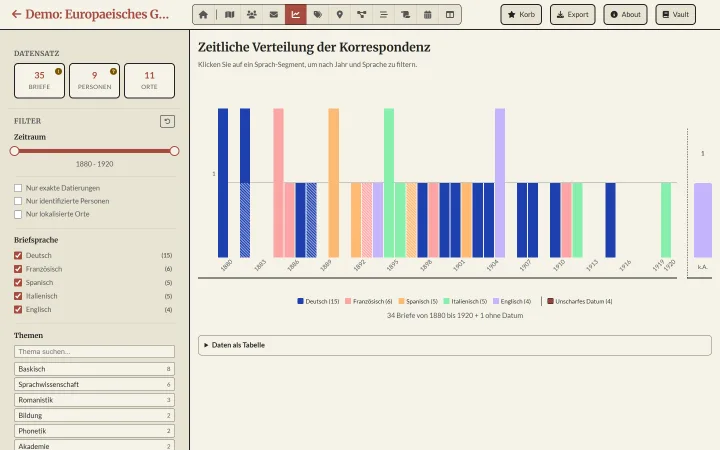
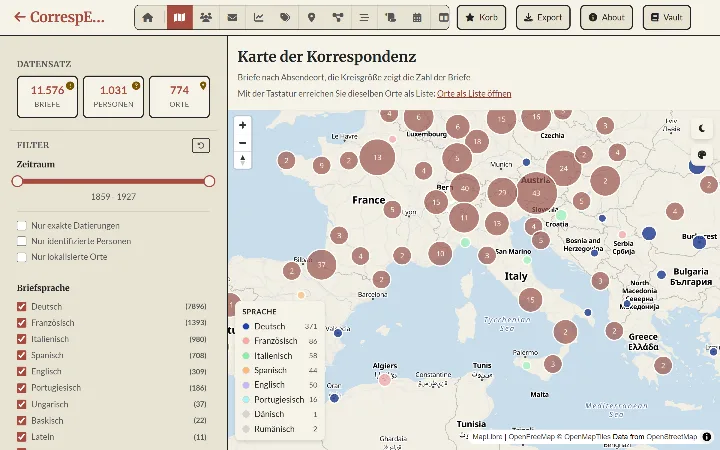
Show stronger screenshots for CorrespExplorer, SZD and teiCrafter, open teiCrafter with its public example and redraw the pipeline figure
Operator feedback and the open rights question on the facsimiles are recorded in design.md and plan.md of knowledge/fancy-research-tools.

diff --git a/src/i18n/fancy.ts b/src/i18n/fancy.ts
@@ -38,7 +38,8 @@ const toolsBase: { id: string; img: string; open: string; code: string; video?: 
   {
     id: 't-tei',
     img: 'teicrafter',
-    open: 'https://dhcraft.org/teiCrafter/editor.html',
+    // The deep link opens the editor with its one public example, without it the editor starts empty.
+    open: 'https://dhcraft.org/teiCrafter/editor.html#example=szd',
     code: 'https://github.com/DigitalHumanitiesCraft/teiCrafter',
     maturity: 'experiment',
   },
@@ -160,19 +161,19 @@ const text = {
       },
       {
         title: 'teiCrafter',
-        alt: 'teiCrafter mit lesbarem Brieftext und markierten Personen und Orten links und dem Register der erwähnten Personen und Orte rechts.',
+        alt: 'teiCrafter mit einem Brief von Stefan Zweig aus dem Jahr 1901. Links steht der lesbare Brieftext Zeile für Zeile, rechts das Faksimile der Briefseite.',
         solution: 'Eine Vorlage zum Forken, aus der Sie Ihr eigenes Werkzeug zur Erfassung von TEI-Daten entwickeln. Sie zeigt lesbaren Text statt Tags und prüft beim Speichern gegen das Schema.',
         licence: 'Code MIT',
       },
       {
         title: 'CorrespExplorer',
-        alt: 'CorrespExplorer mit einer Zeitleiste der Briefe eines Demonstrationsbestands, farbig nach Sprache, und Filtern am linken Rand.',
+        alt: 'CorrespExplorer mit der Karte der Korrespondenz des Hugo Schuchardt Archivs. Kreise über Europa zeigen die Zahl der Briefe je Absendeort, eine Legende die Briefsprachen, am linken Rand stehen Zeitraum und Sprachfilter.',
         solution: 'Zeigt Briefmetadaten aus CMIF als Karte, Zeitleiste und Netzwerk, damit sichtbar wird, wer wem wann von wo schrieb.',
-        licence: 'Code MIT',
+        licence: 'Code MIT, Beispieldaten CC BY 4.0',
       },
       {
         title: 'SZD OCR/HTR Pipeline',
-        alt: 'Statistikansicht der SZD OCR/HTR Pipeline mit der Verteilung der Objekte nach Prüfstufe und den Gründen, aus denen Objekte zur Sichtung vorgemerkt sind.',
+        alt: 'SZD OCR/HTR Pipeline mit einem handschriftlichen Brief von Stefan Zweig aus dem Juni 1939. Links steht das Faksimile, rechts die Transkription Zeile für Zeile, darunter der Vermerk Geprüft.',
         solution: 'Transkribiert die digitalisierten Objekte eines Nachlasses und vermerkt an jedem Objekt, ob es nur maschinell transkribiert, von einem Agenten geprüft oder von Menschen geprüft ist.',
         licence: 'Code MIT',
       },
@@ -203,7 +204,7 @@ const text = {
       },
       {
         title: 'Agentic Edition Pipeline',
-        alt: 'Agentic Edition Pipeline als Ablauf vom Digitalisat über Transkription, Qualitätsprüfung und Basis-TEI zu Ansicht und Korrektur und zur Veröffentlichung. Ein KI-Agent mit Projektwissen führt den Ablauf aus, das Redaktionsteam prüft bei Ansicht und Korrektur und nimmt vor der Veröffentlichung ab.',
+        alt: 'Agentic Edition Pipeline in einer Reihe von den Bildern über Transkription, Qualität und TEI zu Prüfung und Freigabe. Die ersten vier Schritte führt ein KI-Agent mit dem Projektwissen der Edition aus, Prüfung und Freigabe liegen beim Redaktionsteam, und Korrekturen gehen zurück in die Daten. Das Ergebnis sind TEI-XML und eine statische Leseansicht.',
         solution: 'Die Agentic Edition Pipeline führt Digitalisate über Transkription und Prüfung zu TEI und einer statischen Leseansicht.',
       },
     ],
@@ -264,19 +265,19 @@ const text = {
       },
       {
         title: 'teiCrafter',
-        alt: 'teiCrafter with readable letter text and marked persons and places on the left and the register of the persons and places mentioned on the right.',
+        alt: 'teiCrafter with a letter by Stefan Zweig of 1901. The readable letter text stands line by line on the left, the facsimile of the page on the right.',
         solution: 'A template to fork and develop into your own tool for capturing TEI data. It shows readable text instead of tags and validates against the schema on saving.',
         licence: 'Code MIT',
       },
       {
         title: 'CorrespExplorer',
-        alt: 'CorrespExplorer with a timeline of the letters in a demonstration collection, coloured by language, and filters along the left edge.',
+        alt: 'CorrespExplorer with the map of the correspondence of the Hugo Schuchardt Archiv. Circles across Europe show the number of letters per place of sending, a legend the languages of the letters, and the left edge holds the period and language filters.',
         solution: 'Shows letter metadata from CMIF as a map, a timeline and a network, so that it becomes visible who wrote to whom, when and from where.',
-        licence: 'Code MIT',
+        licence: 'Code MIT, sample data CC BY 4.0',
       },
       {
         title: 'SZD OCR/HTR Pipeline',
-        alt: 'Statistics view of the SZD OCR/HTR Pipeline with the distribution of objects by checking tier and the reasons why objects are marked for review.',
+        alt: 'SZD OCR/HTR Pipeline with a handwritten letter by Stefan Zweig of June 1939. The facsimile stands on the left, the transcription line by line on the right, and the note Geprüft, checked, below.',
         solution: 'Transcribes the digitised objects of an estate and records for every object whether it is machine-transcribed only, checked by an agent or checked by a human.',
         licence: 'Code MIT',
       },
@@ -307,7 +308,7 @@ const text = {
       },
       {
         title: 'Agentic Edition Pipeline',
-        alt: 'Agentic Edition Pipeline as a workflow from page images via transcription, quality assessment and base TEI to viewing and correction and to publication. An AI agent with project knowledge runs the workflow, the editorial team reviews at viewing and correction and accepts before publication.',
+        alt: 'Agentic Edition Pipeline in one row from images via transcription, quality and TEI to review and release. An AI agent runs the first four steps with the project knowledge of the edition, review and release rest with the editorial team, and corrections return to the data. The result is TEI XML and a static reading view.',
         solution: 'The Agentic Edition Pipeline takes digital copies through transcription and review to TEI and a static reading view.',
       },
     ],

diff --git a/knowledge/fancy-research-tools/data.md b/knowledge/fancy-research-tools/data.md
@@ -52,7 +52,7 @@ The anchor is the fragment identifier on the page. The licence column names what
 | Tool | Anchor | Maturity on the page | Demo | Repository | Licence | Maturity source |
 |---|---|---|---|---|---|---|
 | coOCR/HTR | `#t-coocr` | Experiment | https://dhcraft.org/co-ocr-htr/ | https://github.com/DigitalHumanitiesCraft/co-ocr-htr | CC BY 4.0 for the whole repository, code included. Whether the code returns to MIT is open, see [plan](plan.md#open-points) | https://github.com/DigitalHumanitiesCraft/co-ocr-htr/blob/main/README.md, which calls the tool a research preview in beta. The page says Experiment by [ADR-016](specification.md#adr-016-uniform-links-no-ability-icons-research-mission-control-withdrawn) |
-| teiCrafter | `#t-tei` | Experiment | https://dhcraft.org/teiCrafter/editor.html | https://github.com/DigitalHumanitiesCraft/teiCrafter | MIT for code, no licence declared for documentation | https://github.com/DigitalHumanitiesCraft/teiCrafter/blob/main/knowledge/INDEX.md and the README, which calls the tool a research preview. The page says Experiment by ADR-016 |
+| teiCrafter | `#t-tei` | Experiment | https://dhcraft.org/teiCrafter/editor.html#example=szd, the deep link that opens the editor with its one public example. Without it the editor starts empty | https://github.com/DigitalHumanitiesCraft/teiCrafter | MIT for code, no licence declared for documentation | https://github.com/DigitalHumanitiesCraft/teiCrafter/blob/main/knowledge/INDEX.md and the README, which calls the tool a research preview. The page says Experiment by ADR-016 |
 | CorrespExplorer | `#t-corresp` | Laufende Demo | https://dhcraft.org/CorrespExplorer/ | https://github.com/DigitalHumanitiesCraft/CorrespExplorer | MIT, docs CC BY 4.0 | https://github.com/DigitalHumanitiesCraft/CorrespExplorer/blob/main/README.md |
 | SZD OCR/HTR Pipeline | `#t-szd` | Experiment | https://chpollin.github.io/szd-htr-ocr-pipeline/ | https://github.com/chpollin/szd-htr-ocr-pipeline | MIT for code, documentation CC BY 4.0. The rights in the facsimiles and in the transcriptions derived from them remain with the Literaturarchiv Salzburg | https://github.com/chpollin/szd-htr-ocr-pipeline/blob/main/knowledge/INDEX.md, state from its README (experimental sub-project, four checking tiers recorded per object, tier 0 implemented end to end), checked on 2026-11-05 |
 | Stefan-Zweig-Bibliographie (Klawiter-Rescue) | `#t-klawiter` | Bestand gesichert | https://chpollin.github.io/klawiter-rescue/ | https://github.com/chpollin/klawiter-rescue | MIT, documentation and data CC BY 4.0 | https://github.com/chpollin/klawiter-rescue/blob/main/knowledge/status.md |
@@ -81,7 +81,7 @@ The cards show hand-written SVG figures in `src/components/fancy/MethodFigure.as
 | Promptotyping | `assets/img/promptotyping-practice.svg` of the local clone `Promptotyping` | researchers who direct and validate, the four forms of work in the order of a first pass, the promptotype made of artefact, project knowledge and research data, knowledge curation |
 | Grounded Vault | `docs/images/grounded-vault-provenance-chain.svg` of the local clone `grounded-vault` | the chain from Output to Sources, the three checks with who performs them, the status ladder |
 | Second Brain Vault | `docs/images/second-brain-figure-de.svg` and `second-brain-figure.svg` of the local clone `second-brain-vault` | vault, agent session and project repository with their blocks, the three steps, reading and writing, the Repo Directory |
-| Agentic Edition Pipeline | none exists. Drawn from the workflow table and the section on models and methods in the README of the repository | page images, transcription, quality assessment, base TEI, viewing and correction, publication, the agent that runs the workflow, the editorial team at viewing and correction and at publication |
+| Agentic Edition Pipeline | none exists. Drawn from the workflow table and the section on models and methods in the README of the repository, redrawn on 2026-11-10 after the operator found the first version pale and schematic | one row of six stations with an icon and one word each, the four the agent runs in blue and the two that rest with the editorial team in purple, the return of corrections as one arrow, the project knowledge in orange and the result, TEI XML and a static reading view, in green |
 
 Language. The terms of Promptotyping and Grounded Vault stay English on both language versions, because both methods fix them in English. Second Brain Vault and the Agentic Edition Pipeline are German on the German page and English on the English page, because Second Brain Vault keeps both versions of its figure.
 
@@ -92,15 +92,15 @@ All published images lie in `public/fancy-research-tools/img/` of the site repos
 | File | Shows | Rights basis |
 |---|---|---|
 | `coocr-htr-*.webp` | coOCR/HTR with a printed page of 1617 from the bundled sample | own tool, print of 1617. The tool's repository records neither the source of the scan nor its terms of use, see [plan](plan.md#open-points) |
-| `teicrafter-*.webp` | teiCrafter with a synthetic letter from `docs/data/editor/zbz-hersch-synthetic.xml` of a teiCrafter clone, dropped into the editor by the screenshot recipe. The public demo offers one other example in its menu | own tool, synthetic text |
-| `correspexplorer-*.webp` | CorrespExplorer timeline of the synthetic demo dataset | own tool, synthetic data |
-| `szd-htr-*.webp` | SZD OCR/HTR Pipeline statistics view with checking tiers and review reasons | own tool, no facsimile shown, because the image rights lie with the archive |
+| `teicrafter-*.webp` | teiCrafter with the one example its public editor offers, a letter by Stefan Zweig of 1901 from Stefan Zweig Digital, third page, reading text beside the facsimile | own tool. The example lies in the tool's repository under CC BY 4.0 per its notice file, the facsimile is loaded from GAMS, and the SZD pipeline states that rights in facsimiles and transcriptions remain with the Literaturarchiv Salzburg, see [plan](plan.md#open-points) |
+| `correspexplorer-*.webp` | CorrespExplorer map of the reference dataset, the CMIF export of the Hugo Schuchardt Archiv with more than eleven thousand letters, bundled by the tool as its extended example | own tool. Data CC BY 4.0 per `knowledge/data.md` of the tool's repository, base map from OpenFreeMap with OpenStreetMap data, whose attribution the screenshot shows |
+| `szd-htr-*.webp` | SZD OCR/HTR Pipeline viewer with object `o:szd.1641`, a handwritten letter by Stefan Zweig of June 1939, facsimile beside transcription with the note Geprüft | own tool. The facsimile is shown on the operator's request of 2026-11-10. Its rights and those of the transcription lie with the Literaturarchiv Salzburg, and no repository records the archive's consent to this use, see [plan](plan.md#open-points). The view names the person who checked the object and the transcription model, as the public viewer does |
 | `klawiter-*.webp` | start page of the Stefan Zweig Bibliography with search, the overview of how the data is built and the sections of the bibliography | own tool, data CC BY 4.0 |
 | none | the generated method infographics `method-*.webp` left `public/` on 2026-11-10, replaced by the [method figures](#method-figures). Their prompt logs stay in `image-prompts/` | not published |
 | `video/fancy-research-tools-workflows.mp4`, its poster and its English captions | the advert video of the page in 1280 by 720, see [Advert video](#advert-video) | picture rendered from code in the repository `dhcraft-promo`, music generated with ACE-Step 1.5, fonts under the SIL Open Font License, logo from the brand assets |
 | `og.jpg`, `og-en.jpg` | hero of the German and the English page for link previews, 1200 by 630 | rendered by `scripts/fancy-research-tools/shoot-og.cjs` from the site preview on 2026-11-05 |
 
-All five tool screenshots were retaken on 2026-11-10. Tool screenshots are taken by `scripts/fancy-research-tools/shoot-tools.cjs` at double pixel density from the live demos, each recipe choosing a state of the real tool without altering its interface. The coOCR/HTR link points to the demo root and never to individual samples. The logo and favicon of the page belong to the site.
+All five tool screenshots were retaken on 2026-11-10, those of teiCrafter, CorrespExplorer and the SZD OCR/HTR Pipeline a second time the same day in a smaller window and a more telling state, after the operator found the first ones weak. Tool screenshots are taken by `scripts/fancy-research-tools/shoot-tools.cjs` at double pixel density from the live demos, each recipe choosing a state of the real tool without altering its interface. The coOCR/HTR link points to the demo root and never to individual samples. The logo and favicon of the page belong to the site.
 
 ## Advert video
 

diff --git a/knowledge/fancy-research-tools/journal.md b/knowledge/fancy-research-tools/journal.md
@@ -217,3 +217,9 @@ The curated backward-looking provenance index of the project. Current facts and 
 - Source: operator review of the local page on 2026-11-10, passed on by the coordinating session, with the words "das Video finde ich sehr gut" and the request recorded verbatim in [design](design.md#operator-feedback), the decisions of the same day in `brand-assets/web/design.md`, and the main figures of Promptotyping, Grounded Vault and Second Brain Vault in their local clones
 - Target: `src/components/fancy/FancyPage.astro`, the new `src/components/fancy/MethodFigure.astro`, `src/i18n/fancy.ts`, `scripts/fancy-research-tools/shoot-og.cjs`, the share images, the removed files `method-*.webp`, [ADR-020](specification.md#adr-020-three-levels-per-entry-and-code-figures-for-four-methods), [data](data.md#method-figures), [design](design.md), [plan](plan.md#open-points), `CLAUDE.md`
 - Result: every tool row and method card reads title with maturity chip, one paragraph and one row of text links. Buttons, the GitHub mark, the hero button row and the caption under the video are gone. The four method cards, Second Brain Vault among them, carry inline SVG figures derived from each method's own main figure, and the Agentic Edition Pipeline has a figure drawn from its README. The generated images and their caption left the page. The page shows the accepted video without waiting for the YouTube address. An interface plan preceded the rebuild and held no direction question. Verified by `npm run build`, `tsc --noEmit`, the syntax check, `check.cjs` with `LINKS=1` against the preview, where only LinkedIn answered 403 to the script as before, playback of the video in the built German and English page without a request to another host, and screenshots of both pages at 1440 and 390 pixels in the light scheme. `dist/` holds nothing from `knowledge/`. Not pushed.
+
+### 2026-11-10 integrated Stronger screenshots and a redrawn pipeline figure
+
+- Source: operator review of the published page on 2026-11-10, recorded in [design](design.md#operator-feedback), and a check of every public target of the page by the coordinating session
+- Target: `scripts/fancy-research-tools/shoot-tools.cjs`, the screenshots of teiCrafter, CorrespExplorer and the SZD OCR/HTR Pipeline, `src/components/fancy/MethodFigure.astro`, `src/i18n/fancy.ts`, [data](data.md#images), [plan](plan.md#open-points)
+- Result: CorrespExplorer shows the map of its reference dataset, the correspondence of the Hugo Schuchardt Archiv, and its row names the licence of the sample data. The SZD entry shows a handwritten letter by Stefan Zweig with facsimile, transcription and the note that a person checked it. The teiCrafter link opens the editor with its public example through the deep link `#example=szd`, where it opened an empty editor before, and the screenshot shows that example. The three recipes use a smaller window, so the views stay readable on a card. The figure of the Agentic Edition Pipeline is one row of six stations with icons, coloured by who acts, with the return of corrections, the project knowledge and the result. The prepared new name of the SZD entry waits for the operator's word. The facsimiles on two screenshots are a rights question recorded in the plan. Verified by `npm run build`, `tsc --noEmit`, the syntax check, `check.cjs` with `LINKS=1` against the preview and screenshots at 1440 and 390 pixels in both languages. Not pushed.

diff --git a/knowledge/fancy-research-tools/plan.md b/knowledge/fancy-research-tools/plan.md
@@ -37,7 +37,8 @@ An offer page on dhcraft.org that visitors find from the site navigation and the
 - The method cards derive from figures that the repositories of Promptotyping, Grounded Vault and Second Brain Vault held only locally on 2026-11-10. Until those repositories are pushed, the linked method pages show their earlier figures.
 - coOCR/HTR ships sample images without a recorded source or terms of use, the print of 1617 on the page's screenshot among them. The example policy of [ADR-017](specification.md#adr-017-page-slimmed-to-offer-examples-methods-and-contact) needs either that record in the tool's repository or the operator's decision to keep the example as it is.
 - The SZD OCR/HTR Pipeline and the Stefan-Zweig-Bibliographie rest on holdings of the Literaturarchiv Salzburg. No repository records the archive's consent to their use as examples of a commercial offer, which [CR-06](specification.md#content-rules) asks for where a project stands behind an example.
-- The teiCrafter screenshot shows a synthetic letter that the public demo does not offer in its menu. A screenshot of the one public example would show a facsimile from GAMS, whose image rights lie with the archive.
+- The screenshots of teiCrafter and of the SZD OCR/HTR Pipeline show facsimiles of letters by Stefan Zweig since 2026-11-10, on the operator's request for telling images. The rights in these facsimiles lie with the Literaturarchiv Salzburg, and the archive's consent to their use on this page is not recorded.
+- The name of the SZD example waits for the operator's word. Prepared is the title SZD-HTR with the line Transkription und Prüfung des Nachlasses von Stefan Zweig, in English Transcription and review of the Stefan Zweig estate, in place of SZD OCR/HTR Pipeline. The change touches the title and the alt text of the entry in `src/i18n/fancy.ts` and the rows in [data](data.md#tools).
 - The demo of the SZD OCR/HTR Pipeline scrolls sideways at phone width and logs a blocked inline event handler. coOCR/HTR and the SZD demo load fonts from a public font service at runtime. Both belong to the tools' repositories.
 
 - The conditions under which client research data enter GAMS are not documented. The offers in the operator's vault bill archiving separately, and the home page says only that archiving is offered. This page has not mentioned archiving since its principles left it on 2026-10-21.

diff --git a/knowledge/fancy-research-tools/design.md b/knowledge/fancy-research-tools/design.md
@@ -57,6 +57,7 @@ The page uses the tokens of the site and adds local ones only where the site has
 Kept verbatim as requirements and read before every rebuild.
 
 - 2026-11-10, on the hero video: "das Video finde ich sehr gut."
+- 2026-11-10, on the published page, as passed on by the coordinating session: the CorrespExplorer screenshot with the small demo dataset and the bar chart is too weak, he wants a clearly more impressive one with a really good dataset and visualisation. The SZD card shows the statistics page, small and pale, and should show what makes the tool, facsimile and transcription side by side with the checking status, cropped so that the writing is readable on the card. The new figure of the Agentic Edition Pipeline is pale and schematic and does not show what is special about the pipeline. It should be one clear way from left to right without a break into two rows, stations with a small icon and one word, a visible difference between what the agent does and where people check, the return of the correction as one arrow and the result recognisable as a result.
 - 2026-11-10, on the section Methoden und Frameworks, as passed on by the coordinating session: he sees too many levels there again. A card held image, the line "Generiert mit gpt-image", title, description, a status mark, a main button and below it a row of two to four text links. Every entry is to have at most three levels and its references one form, on the whole page, the examples included. The generated images are to give way to the main figures programmed that day, Second Brain Vault is to join as a method card, and the Agentic Edition Pipeline is to get a new hand-written figure in the same style.
 
 ## Generated images
